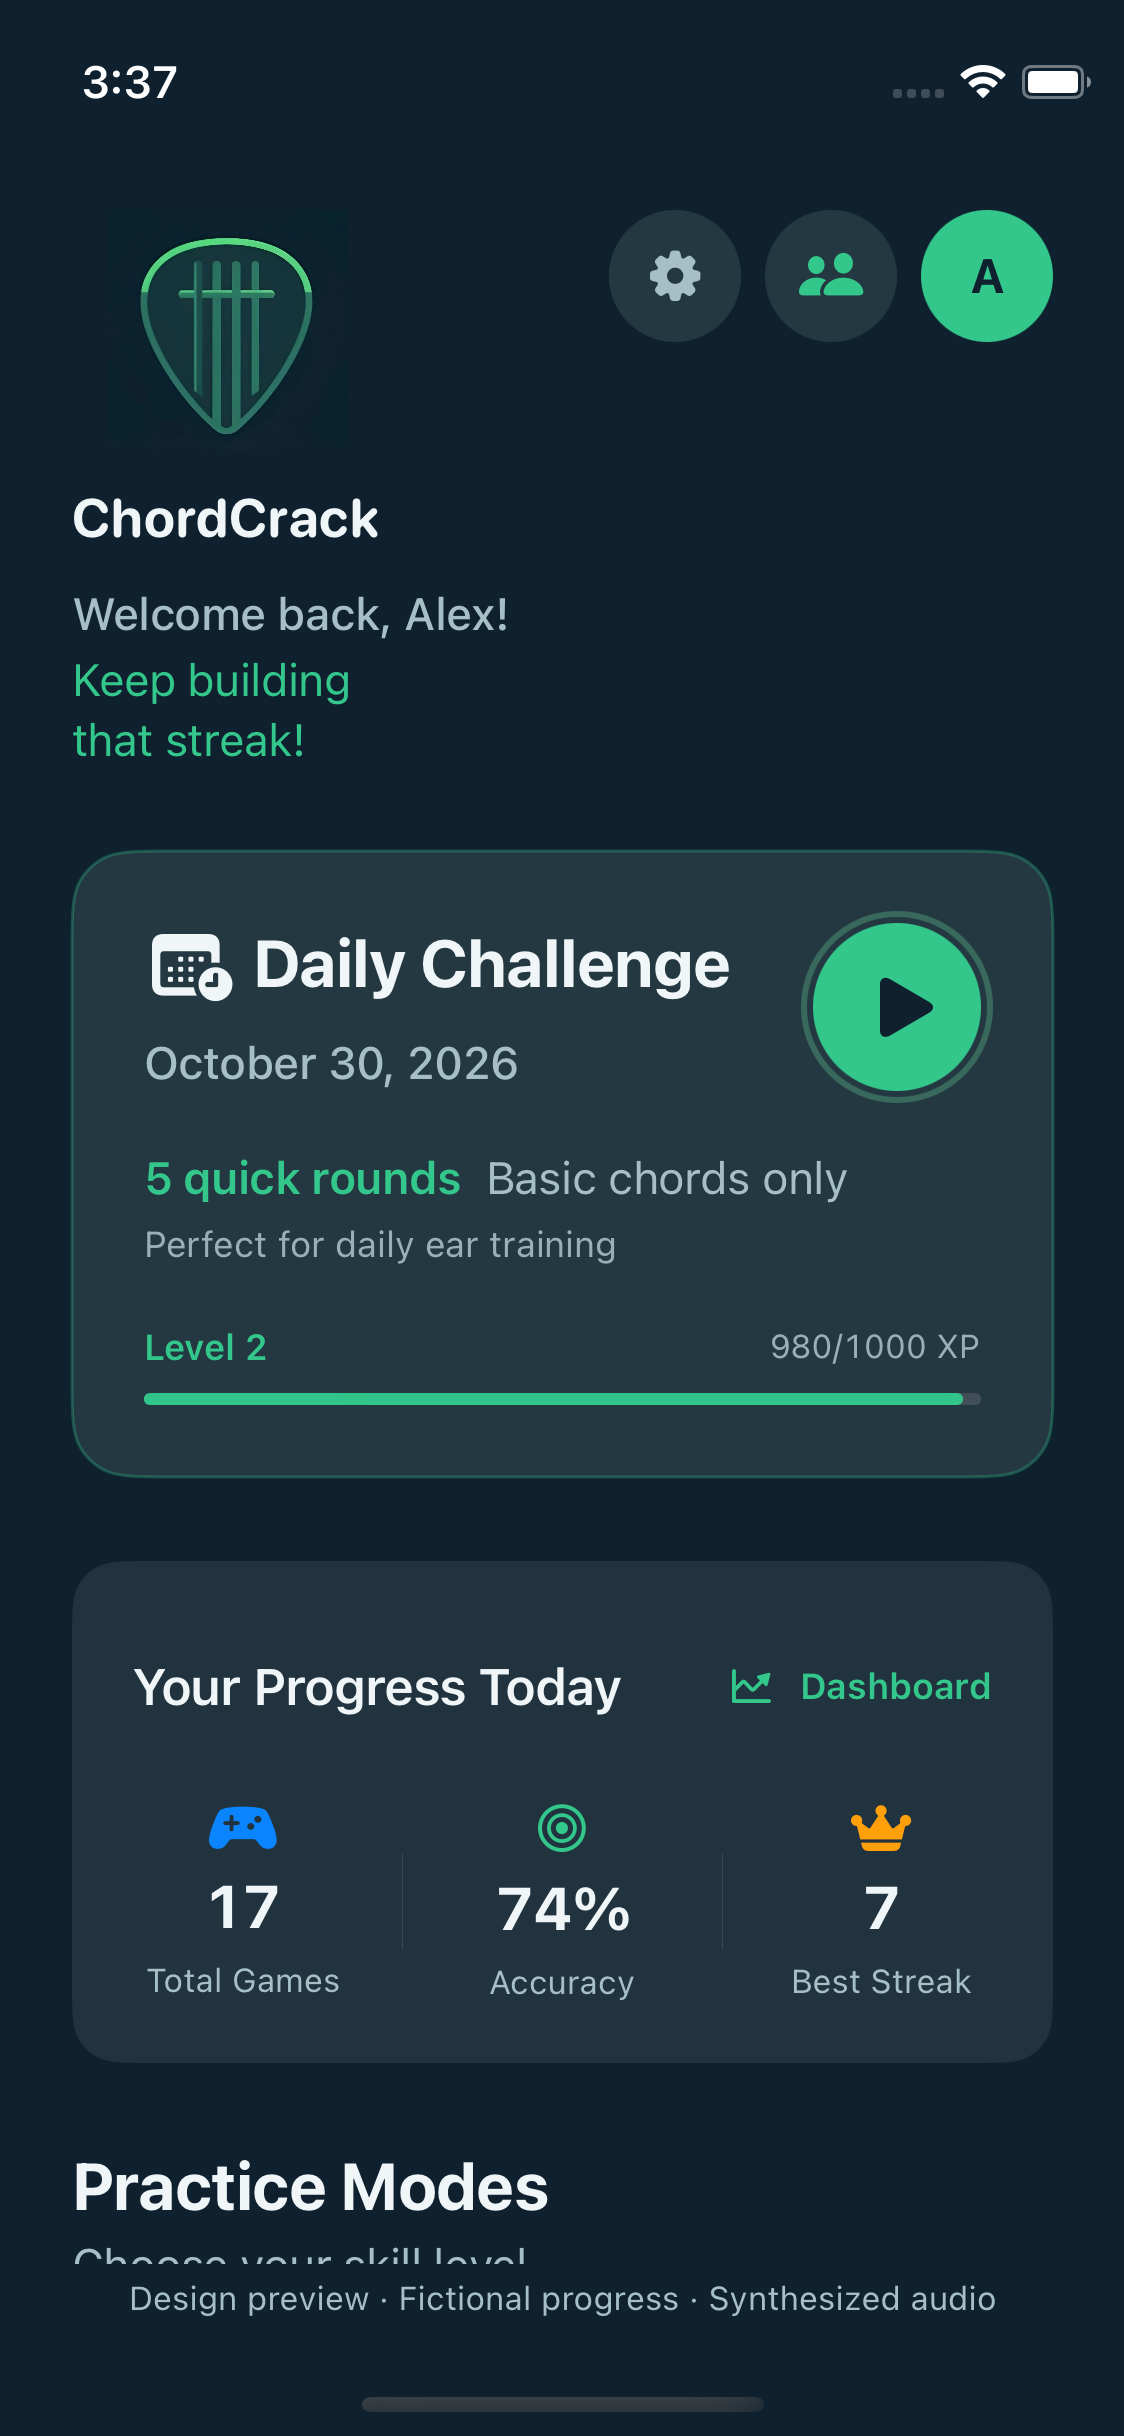
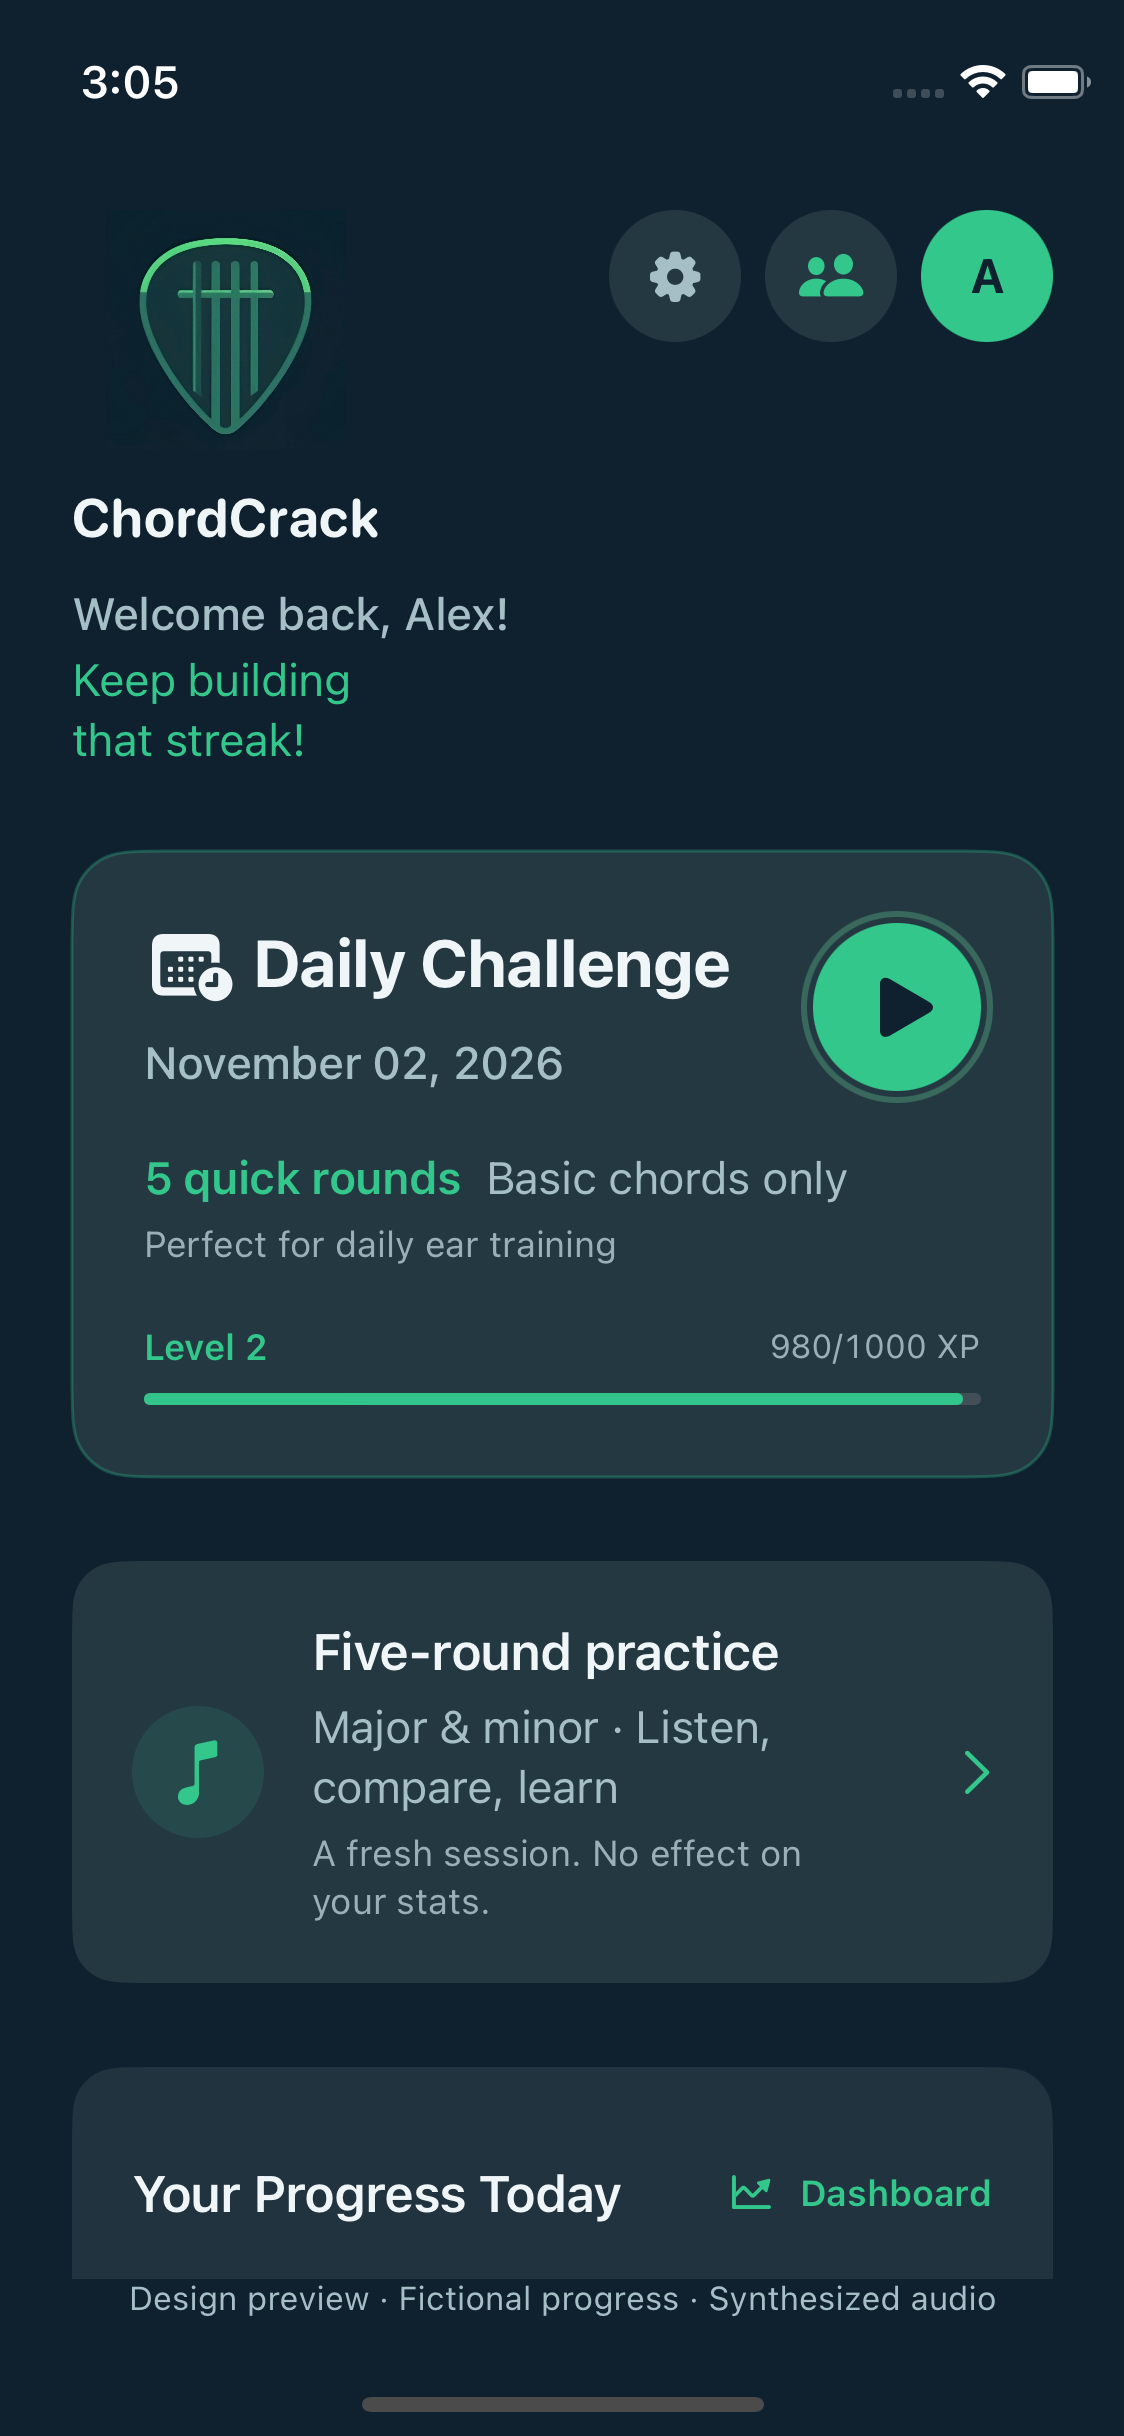
Update app availability and five-round practice preview

diff --git a/index.html b/index.html
@@ -31,19 +31,19 @@
   <header class="site-header wrap">
     <a class="brand" href="#home" aria-label="ChordCrack home"><img src="logo.png" width="48" height="48" alt=""><span>ChordCrack</span></a>
     <nav class="desktop-nav" aria-label="Main navigation"><a href="#practice">Practice</a><a href="#library">Chord library</a><a href="#support">Questions</a></nav>
-    <a class="header-download" href="https://apps.apple.com/us/app/chordcrack/id6752358083">Get the app <span aria-hidden="true">↗</span></a>
-    <details class="mobile-menu"><summary>Menu</summary><nav aria-label="Mobile navigation"><a href="#practice">Practice</a><a href="#library">Chord library</a><a href="#support">Questions</a><a href="https://apps.apple.com/us/app/chordcrack/id6752358083">Get the app</a></nav></details>
+    <a class="header-download" href="#availability">App status <span aria-hidden="true">↗</span></a>
+    <details class="mobile-menu"><summary>Menu</summary><nav aria-label="Mobile navigation"><a href="#practice">Practice</a><a href="#library">Chord library</a><a href="#support">Questions</a><a href="#availability">App status</a></nav></details>
   </header>
   <main id="home" tabindex="-1">
     <section class="hero wrap" aria-labelledby="hero-title">
       <div class="hero-copy">
         <h1 id="hero-title">Know that<br>chord.</h1>
         <p>Guitar ear training that starts with a listen.<br class="wide-only"> Guess the chord. Get a little better at hearing it.</p>
-        <a class="button" href="https://apps.apple.com/us/app/chordcrack/id6752358083">Get ChordCrack <span aria-hidden="true">↗</span></a>
-        <p class="availability">On the App Store for iPhone &amp; iPad</p>
+        <a class="button" href="#practice">Explore the app <span aria-hidden="true">↗</span></a>
+        <p class="availability">For iPhone &amp; iPad · Downloads temporarily paused</p>
       </div>
       <figure class="hero-product">
-        <div class="phone"><img src="images/preview-home.png" width="1124" height="2436" fetchpriority="high" alt="ChordCrack development Home: five-round Daily Challenge and fictional practice progress."></div>
+        <div class="phone"><img src="images/preview-home.png" width="1124" height="2436" fetchpriority="high" alt="ChordCrack development Home: Daily Challenge, five-round practice and fictional progress."></div>
         <figcaption>From the next update · Development preview</figcaption>
       </figure>
     </section>
@@ -83,7 +83,7 @@
         <figure class="practice-product"><div class="phone"><img src="images/preview-daily.png" width="1124" height="2436" loading="lazy" decoding="async" alt="Daily Challenge development screen with a Listen control, answer choices, score and round progress."></div><figcaption>Daily Challenge · Development preview</figcaption></figure>
         <div class="practice-details">
           <ol class="practice-steps"><li><h3>Listen closely.</h3><p>Start with the sound of a guitar chord. No guitar in your hands required.</p></li><li><h3>Take your best guess.</h3><p>Choose the chord you hear. Slower playback and individual notes can help when you need a hint.</p></li><li><h3>Learn the difference.</h3><p>Follow your scores and accuracy, or focus on major, minor, power, barre and blues chords.</p></li></ol>
-          <a class="text-link" href="https://apps.apple.com/us/app/chordcrack/id6752358083">Start practicing in ChordCrack <span aria-hidden="true">↗</span></a>
+          <a class="text-link" href="#library">Explore the chord library <span aria-hidden="true">↗</span></a>
         </div>
       </div>
     </section>
@@ -95,7 +95,7 @@
       </div>
     </section>
 
-    <section class="preview-note-section wrap" aria-labelledby="preview-title"><h2 id="preview-title">A look at what’s next.</h2><p>The screens on this page are actual iOS development previews with fictional progress. They show work toward the next update, not a new App Store release. We’re also trying a separate five-round major/minor prototype with comparison replay. Check the App Store for the version available today.</p></section>
+    <section class="preview-note-section wrap" id="availability" aria-labelledby="preview-title"><h2 id="preview-title">A look at what’s next.</h2><p>The screens on this page are actual iOS development previews with fictional progress. They show work toward the next update, not a new App Store release. The next update also includes five-round major/minor practice with comparison replay and a session recap. New App Store downloads are temporarily unavailable. <a href="https://apps.apple.com/us/app/chordcrack/id6752358083">App Store listing <span aria-hidden="true">↗</span></a></p></section>
 
     <section class="support-section wrap" id="support" aria-labelledby="support-title">
       <div class="support-heading"><h2 id="support-title">Before you<br>press play.</h2><p>Have another question?<br><a href="mailto:support@chordcrack.com">support@chordcrack.com</a></p></div>
@@ -110,7 +110,7 @@
       </div>
     </section>
 
-    <footer class="site-footer"><div class="wrap"><div class="footer-top"><h2>Next chord?<br>Let’s find it.</h2><a class="button button-dark" href="https://apps.apple.com/us/app/chordcrack/id6752358083">Get ChordCrack <span aria-hidden="true">↗</span></a></div><a class="footer-wordmark" href="#home" aria-label="ChordCrack, back to top">ChordCrack</a><div class="footer-bottom"><p>© 2025–2026 Michael Maaseide</p><nav aria-label="Legal and contact"><a href="privacy.html">Privacy</a><a href="terms.html">Terms</a><a href="mailto:support@chordcrack.com">Contact</a></nav></div></div></footer>
+    <footer class="site-footer"><div class="wrap"><div class="footer-top"><h2>Next chord?<br>Let’s find it.</h2><a class="button button-dark" href="#practice">Explore the app <span aria-hidden="true">↗</span></a></div><a class="footer-wordmark" href="#home" aria-label="ChordCrack, back to top">ChordCrack</a><div class="footer-bottom"><p>© 2025–2026 Michael Maaseide</p><nav aria-label="Legal and contact"><a href="privacy.html">Privacy</a><a href="terms.html">Terms</a><a href="mailto:support@chordcrack.com">Contact</a></nav></div></div></footer>
   </main>
 </body>
 </html>
